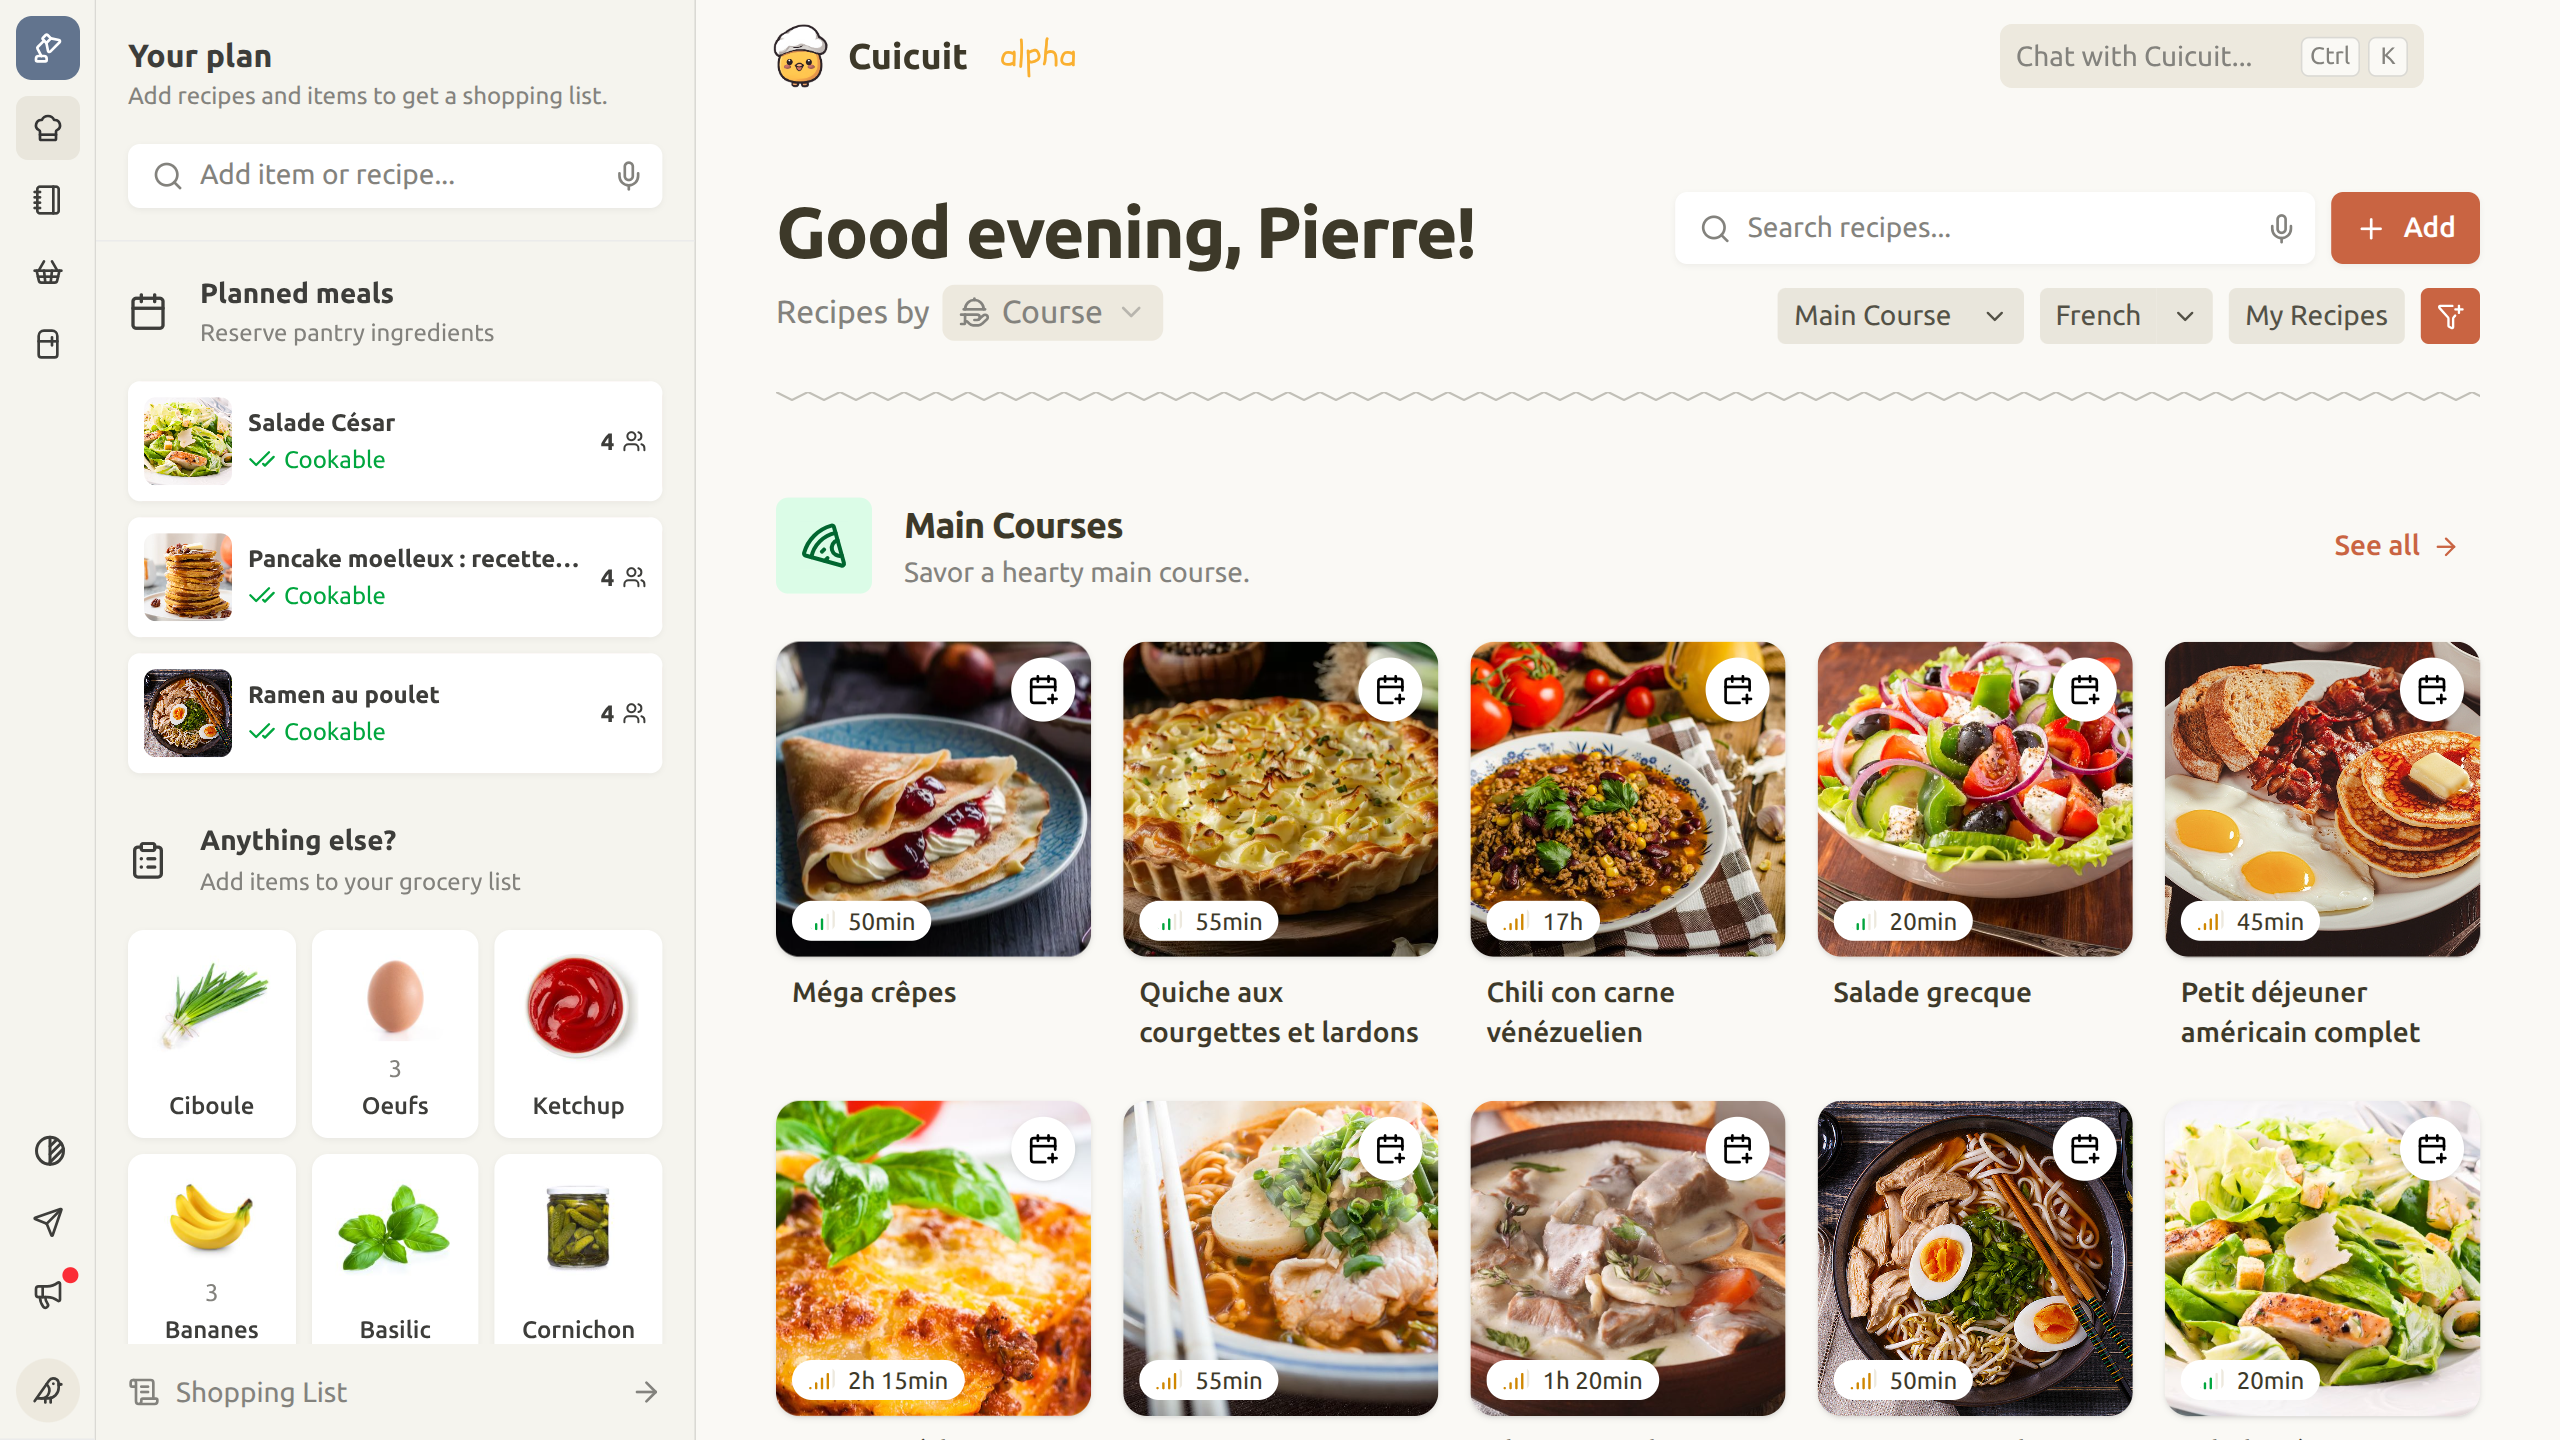
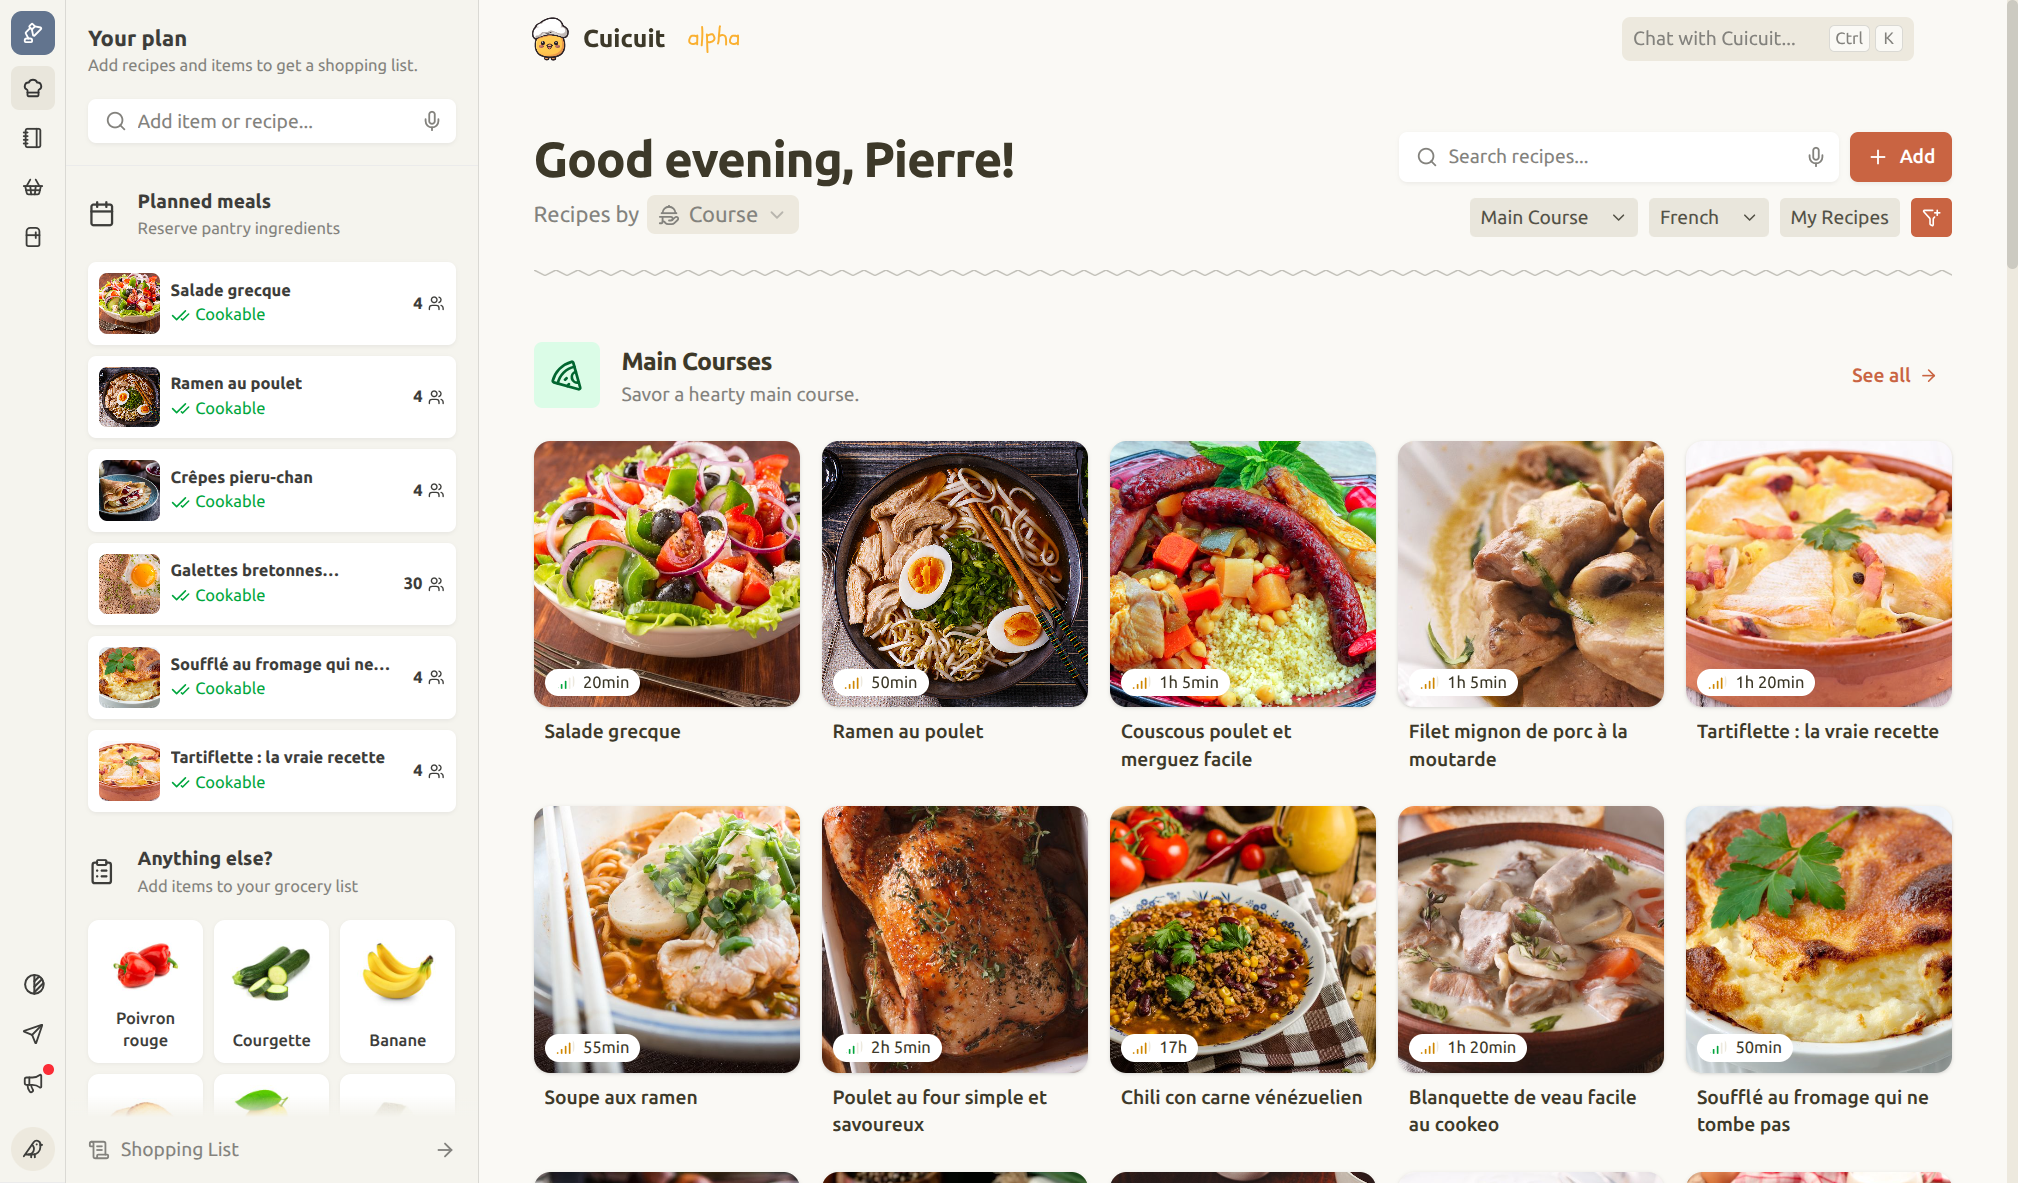
chore: rename cuicuit2 to cuicuit

diff --git a/src/routes/(app)/pantry/+page.svelte b/src/routes/(app)/pantry/+page.svelte
@@ -1,7 +1,6 @@
 <script lang="ts">
 	import CookableStatus from '$lib/features/recipes/components/CookableStatus.svelte';
 	import { Button } from '$lib/shared/components/ui/button';
-	import { Separator } from '$lib/shared/components/ui/separator';
 	import { ExternalLink } from 'lucide-svelte';
 	import SeparatorZigZag from '../shopping-list/SeparatorZigZag.svelte';
 
@@ -33,7 +32,7 @@
 			</p>
 		</div>
 
-		<Button href="https://github.com/MadeInPierre/cuicuit2/discussions" target="_blank">
+		<Button href="https://github.com/MadeInPierre/cuicuit/discussions" target="_blank">
 			Vote for this feature
 			<ExternalLink class="size-4" />
 		</Button>

diff --git a/src/lib/shared/config/site-config.ts b/src/lib/shared/config/site-config.ts
@@ -1,13 +1,13 @@
 export const siteConfig = {
 	name: 'Cuicuit',
-	url: 'https://cuicuit2.laclau.dev',
-	ogImage: 'https://cuicuit2.laclau.dev/signup-bg.jpg',
+	url: 'https://cuicuit.laclau.dev',
+	ogImage: 'https://cuicuit.laclau.dev/signup-bg.jpg',
 	description: 'Your favorite kitchen companion!',
 	links: {
-		github: 'https://github.com/MadeInPierre/cuicuit2'
+		github: 'https://github.com/MadeInPierre/cuicuit'
 	},
 	keywords: 'cuicuit,Cuicuit,kitchen,assistant,food,cuisine',
-	inviteUrlBase: 'https://cuicuit2.laclau.dev/join/'
+	inviteUrlBase: 'https://cuicuit.laclau.dev/join/'
 };
 
 export type SiteConfig = typeof siteConfig;

diff --git a/src/routes/(app)/cookbooks/+page.svelte b/src/routes/(app)/cookbooks/+page.svelte
@@ -3,7 +3,6 @@
 	import { getActiveSpaceState } from '$lib/features/spaces/state/active-space.svelte';
 	import SectionHeader from '$lib/shared/components/SectionHeader.svelte';
 	import { Button } from '$lib/shared/components/ui/button';
-	import { Separator } from '$lib/shared/components/ui/separator';
 	import {
 		Candy,
 		EllipsisVertical,
@@ -37,7 +36,7 @@
 			</p>
 		</div>
 
-		<Button href="https://github.com/MadeInPierre/cuicuit2/discussions" target="_blank">
+		<Button href="https://github.com/MadeInPierre/cuicuit/discussions" target="_blank">
 			Vote for this feature
 			<ExternalLink class="size-4" />
 		</Button>

diff --git a/README.md b/README.md
@@ -4,6 +4,15 @@
   </a>
   <br>Cuicuit<br>
 </h1>
+<h3 align="center">Your favorite kitchen companion!</h3>
+
+
+# Screenshots
+
+<div style="display: flex; flex-wrap: wrap; justify-content: center; gap: 10px;">
+  <img src="./static/screenshots/recipes_wide_1280x720.png" alt="Screenshot" style="max-height: 400px; width: auto;">
+  <img src="./static/screenshots/shoppinglist_mobile_487x911.png" alt="Screenshot" style="max-height: 400px; width: auto;">
+</div>
 
 # Features:
 
